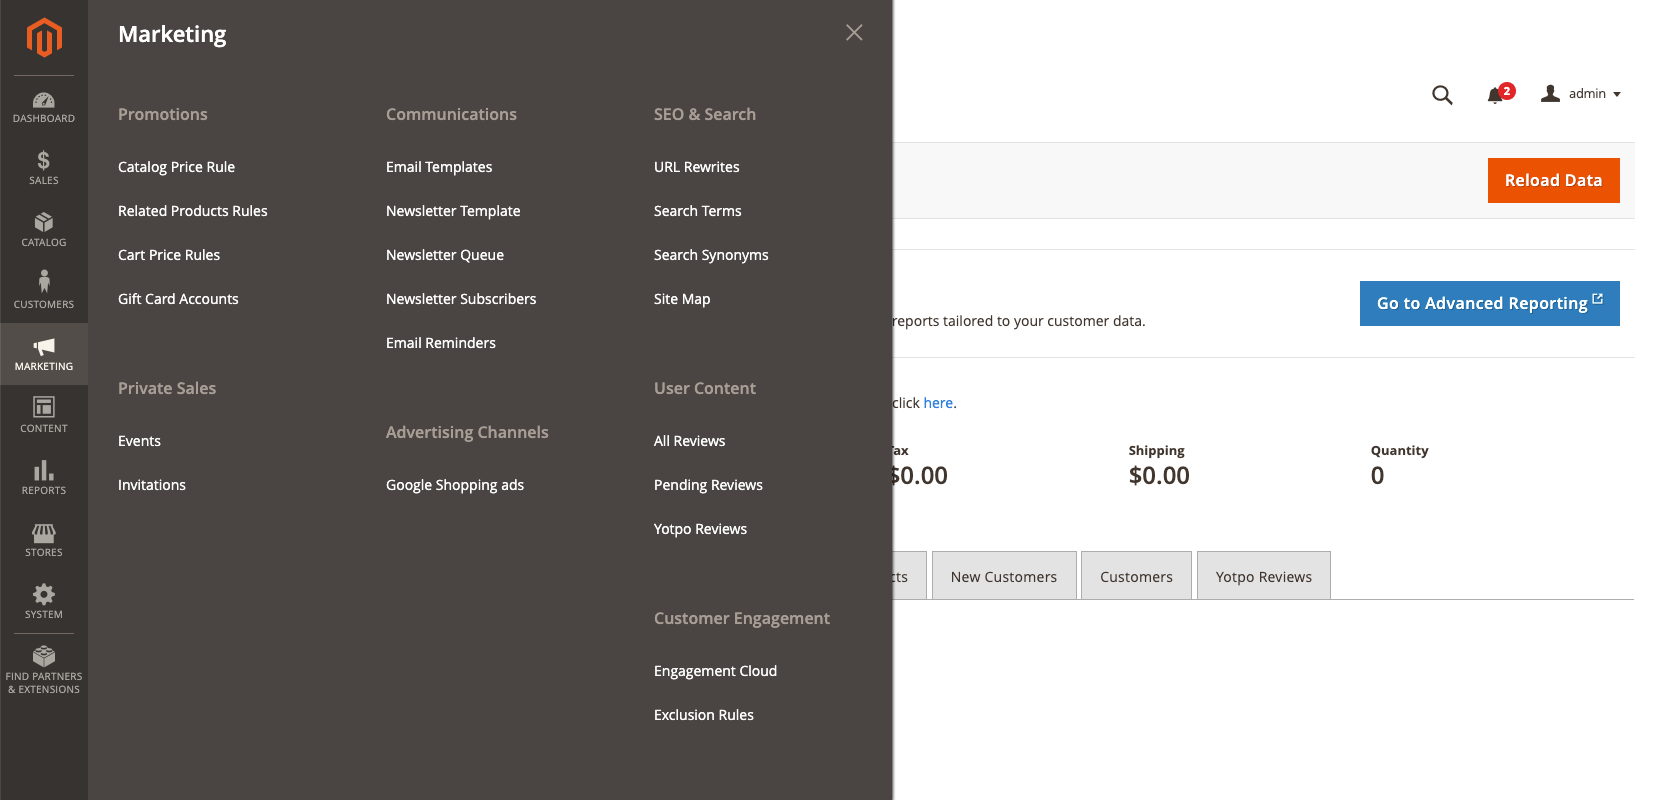
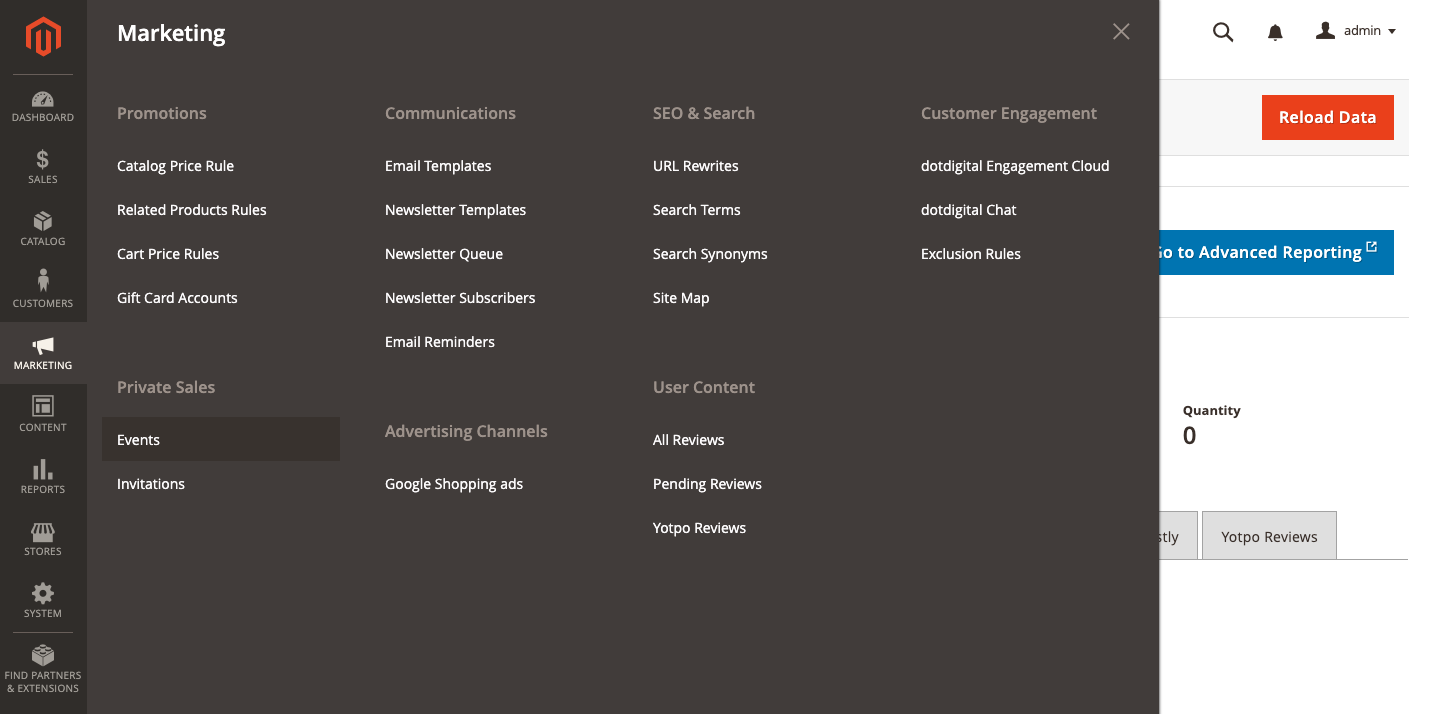
Updated Marketing menu
Updated screenshot and desc,

diff --git a/src/marketing/marketing-menu.md b/src/marketing/marketing-menu.md
@@ -54,4 +54,4 @@ Leverage user-generated [product reviews]({% link marketing/product-reviews.md -
 
 ### Customer Engagement
 
-Create personalized, [automated engagement]({% link marketing/engagement-cloud.md %}) campaigns that exceed customer expectations. Connect your data to boost ROI and increase customer lifetime value.
+Use dotdigital Engagement Cloud to create personalized, [automated engagement]({% link marketing/engagement-cloud.md %}) campaigns that exceed customer expectations. Connect your data to boost ROI and increase customer lifetime value.
